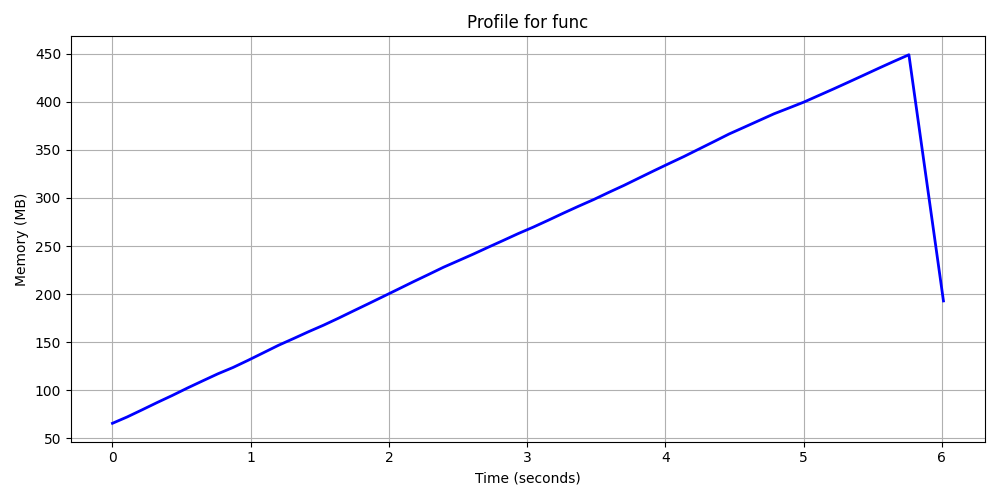
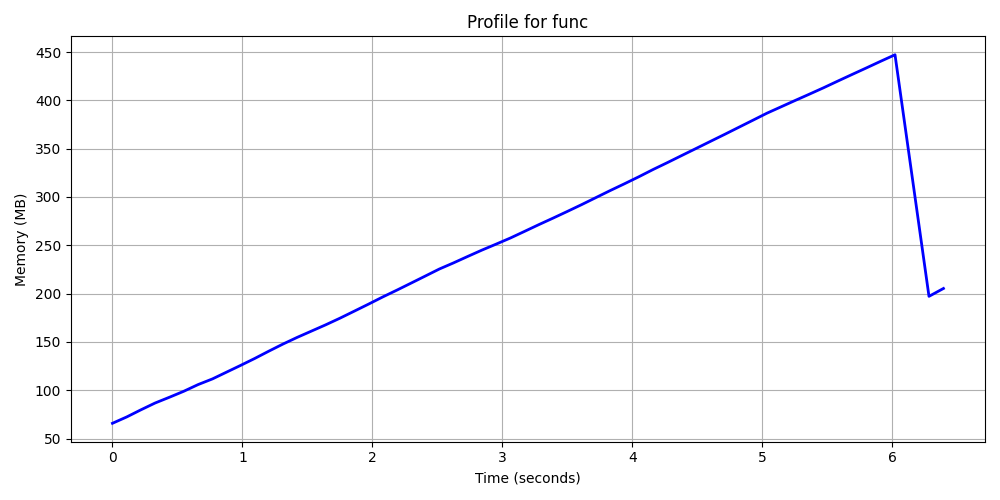
adding context manager

diff --git a/profile_this/core.py b/profile_this/core.py
@@ -26,6 +26,14 @@ class ProfileThis:
         self.timestamps = []
         self.memory_mb = []
 
+    def __enter__(self) -> "ProfileThis":
+        self.start()
+        return self
+
+    def __exit__(self, exc_type, exc_value, traceback):
+        self.stop()
+        self.clear()
+
     def _log(self):
         """Snapshots memory allocation and runtime according to some time interval."""
 
@@ -51,6 +59,13 @@ class ProfileThis:
 
         self.running = False
         self.thread.join()
+
+    def clear(self):
+        """Clears the timestamps and memory_mb attributes."""
+
+        self.timestamps = []
+        self.memory_mb = []
+        self.running = False
 
     def plot(
         self,

diff --git a/tests/test_profile_this.py b/tests/test_profile_this.py
@@ -12,11 +12,9 @@ def test_profile_this():
     docs = os.path.abspath(
         os.path.join(os.path.dirname(__file__), "..", "docs")
     )
-    profiler = ProfileThis()
-    profiler.start()
-    func()
-    profiler.stop()
-    profiler.plot(
-        title="Profile for func",
-        path=os.path.join(docs, "func.png"),
-    )
+    with ProfileThis() as profiler:
+        func()
+        profiler.plot(
+            title="Profile for func",
+            path=os.path.join(docs, "func.png"),
+        )

diff --git a/profile_this/__init__.py b/profile_this/__init__.py
@@ -2,4 +2,4 @@ from .core import ProfileThis
 
 __all__ = ["ProfileThis"]
 __author__ = "Mike Letts"
-__version__ = "0.1.3"
+__version__ = "0.1.4"

diff --git a/README.md b/README.md
@@ -38,6 +38,17 @@ profiler.plot(
 )
 ```
 
+Or, equivalently, do this instead:
+
+```python
+with ProfileThis() as profiler:
+    func()
+    profiler.plot(
+        title="Profile for func",
+        path="docs/func.png",
+    )
+```
+
 To get this:
 
 ![func image](https://raw.githubusercontent.com/michaelthomasletts/profile-this/refs/heads/main/docs/func.png)
